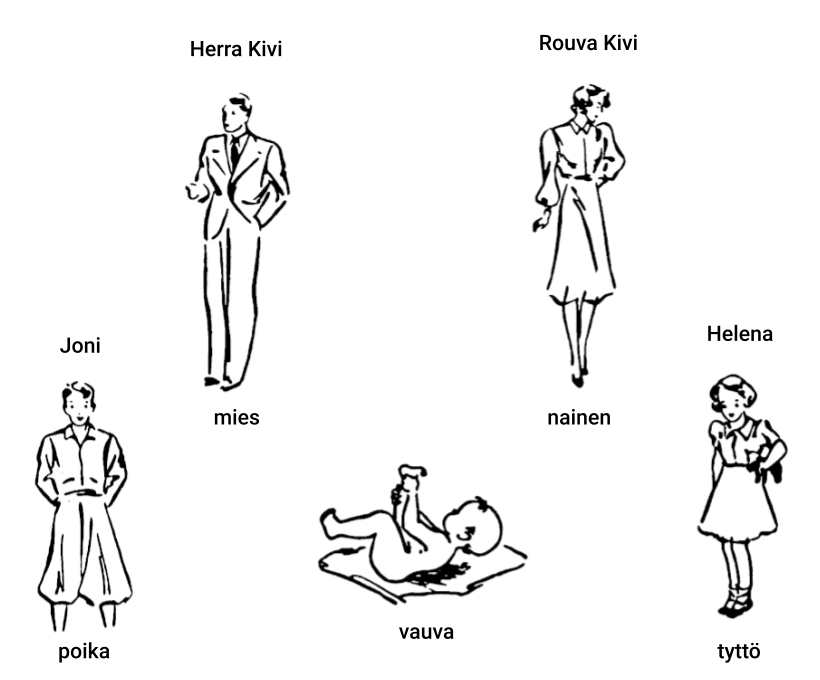
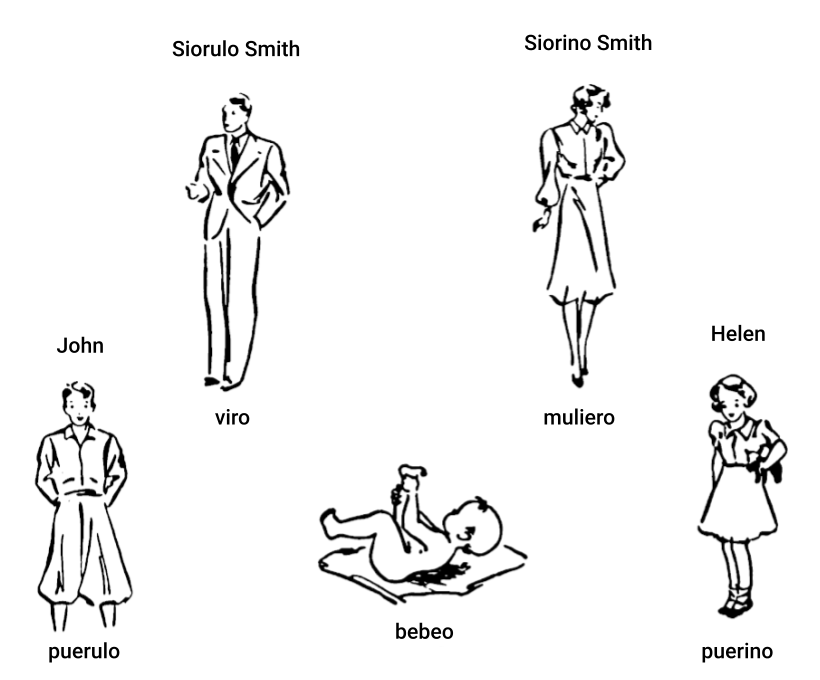
Edits

diff --git a/index.html b/index.html
@@ -28,7 +28,7 @@
 
 <div 
 	x-data="fetchChapters()"
-	x-init="fetch('lang/finnish/chapter-data.json')
+	x-init="fetch('lang/ido/chapter-data.json')
 		.then(response => response.json())
 		.then(fetchData => data = fetchData)
 		.then(log => console.log(log))">
